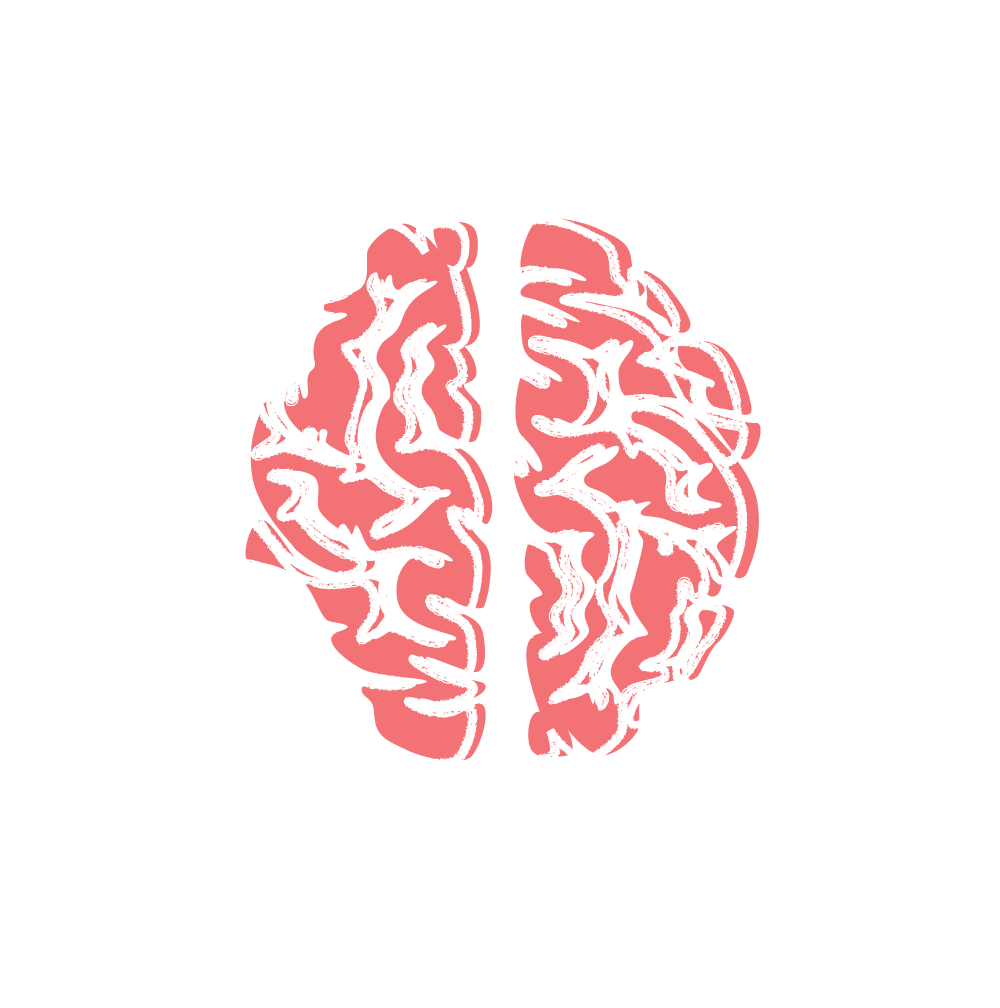
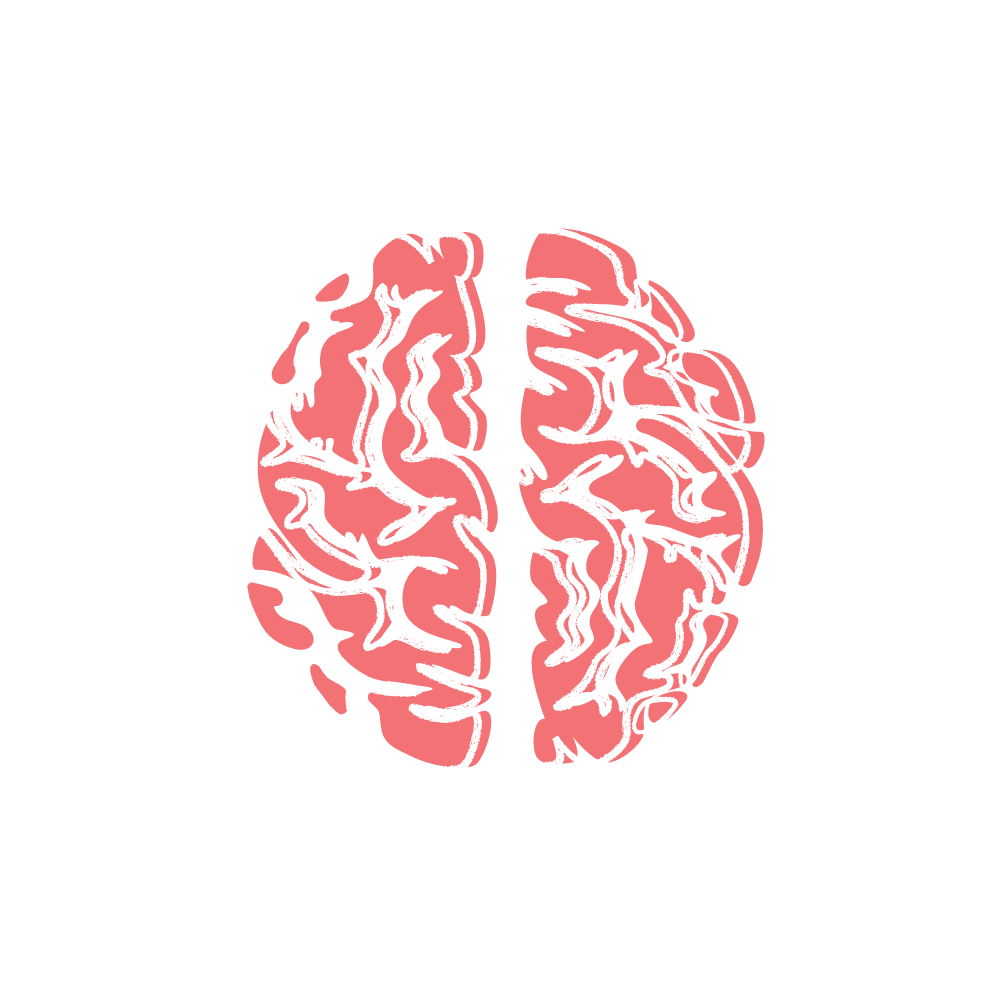
added pngs

Changed region(s): [[0.248, 0.217, 0.775, 0.775]]

diff --git a/assets/js/content.js b/assets/js/content.js
@@ -5,6 +5,7 @@ var content = [
 		shortTitle: "Origin Story of a Flu Drug",
 		subhead: "The untold story of Xoflua, which was approved by the FDA in 2018, is about the basic research, without which the drug would have been impossible, and how scientist Robert Krug made the discovery in the 1970s about how flu hijacks a critical process inside cells early on. Other flu treatments, such as Tamiflu, attack the virus after it has replicated in host cells; they work by making it harder for daughter viruses to escape from the host cell. Xofluza, on the other hand, attacks the flu virus at the early stage that Krug's research illuminated, blocking flu before it is able to create daughter viruses. \"It stops the virus cold,\" Krug said. \"It can't do anything.\"",
 		illustration: "assets/img/illustrations/rna.gif",
+		static: "assets/img/illustrations/rna.png",
 		instLogo: "assets/img/inst-logos/utaustin.png",
 		institution: "UT Austin",
 		link: "https://cns.utexas.edu/news/the-40-year-old-discovery-behind-a-promising-new-flu-drug",
@@ -17,6 +18,7 @@ var content = [
         shortTitle: "The UPS Man",
         subhead: "“We can cure almost anything,” says Dr. David McPherson. “Any cancer. Any heart disease. But the quantities needed to do so, right now, may kill the patient.” This is true, he says, not just of injectable drugs, but of pills, inhalants, and every other method of drug delivery. What’s needed are new, better, more universal ways to get drugs where we need them and keep them away from where we don’t. McPherson’s solution, on which he’s been working for almost 20 years, is a class of carriers called echogenic liposomes. They are essentially tiny innerspace submarines, with an outer lipid shell, that carry different types of drugs throughout the bloodstream.",
         illustration: "assets/img/illustrations/ups.gif",
+        static: "assets/img/illustrations/ups.png",
         instLogo: "assets/img/inst-logos/uthealth.png",
         institution: "UTHealth",
         link: "http://www.utsystempophealth.org/thj-stories/ups-man",
@@ -29,6 +31,7 @@ var content = [
         shortTitle: "The New/Old Pre-e Drug",
         subhead: "Researchers have been working for decades, with little success, on ways to treat preeclampsia or reduce the risk of developing it. They’ve tried blood pressure medications, antioxidant vitamins, salt restriction, aspirin, fish oil, and calcium, all with little or no effect. A new drug that dramatically reduced the risks would be a unicorn under any circumstances. That the new drug might in fact be an old drug, proven safe in many studies and already sold cheaply as a generic, would be extraordinary. ",
         illustration: "assets/img/illustrations/preeclampsia.gif",
+        static: "assets/img/illustrations/preeclampsia.png",
         instLogo: "assets/img/inst-logos/utmb.png",
         institution: "UTMB",
         link: "",
@@ -41,6 +44,7 @@ var content = [
         shortTitle: "Fluorine Breakthrough",
         subhead: "A groundbreaking discovery by chemists at The University of Texas at San Antonio (UTSA) will have a significant impact on how pharmaceutical companies develop new drug treatments. The breakthrough involves fluorine, which forms the second strongest carbon bond (C-F) known to science, after the carbon-silicon (C-Si) bond.",
         illustration: "assets/img/illustrations/fluorine.gif",
+        static: "assets/img/illustrations/fluorine.png",
         instLogo: "assets/img/inst-logos/utsa.png",
         institution: "UT Health San Antonio",
         link: "https://phys.org/news/2018-09-chemists-historic-fluorine-discovery.html",
@@ -53,6 +57,7 @@ var content = [
 		shortTitle: "Healing the Damaged Lung",
 		subhead: "At the core of Lung Therapeutics is a simple but profound hope: to help people who are suffering breathe easier. Over the next few years, Dr. Steven Idell and his colleagues are hoping to bring to market two drugs. One is a treatment for Loculated Pleural Effusion (LPE), a complication of pnuemonia from fluid build-up in the space between the lung and the lung lining. The other treats Idiopathic Pulmonary Fibrosis (IPF), a chronic lung disease typified by progressive lung scarring",
 		illustration: "assets/img/illustrations/Lungs.gif",
+		static: "assets/img/illustrations/Lungs.png",
 		instLogo: "assets/img/inst-logos/tyler.png",
 		institution: "UT Tyler",
 		link: "https://www.easttexasmatters.com/news/local-news/lung-scarring-reversal-drugs-discovered-by-local-doctors-sees-great-progress/674313067",
@@ -65,6 +70,7 @@ var content = [
 		shortTitle: "Pediatric Cancer",
 		subhead: " A first-of-its-kind drug targeting a fused gene found in many types of cancer was effective in 93 percent of pediatric patients tested, researchers at UT Southwestern’s Simmons Cancer Center announced. Most cancer drugs are targeted to specific organs or locations in the body. Larotrectinib is the first cancer drug to receive FDA breakthrough therapy designation for patients with a specific fusion of two genes in the cancer cell, no matter what cancer type. The research appears in The Lancet Oncology.",
 		illustration: "assets/img/illustrations/Genes.gif",
+		static: "assets/img/illustrations/Genes.png",
 		instLogo: "assets/img/inst-logos/utsw.png",
 		institution: "UT Southwestern",
 		link: "https://www.utsouthwestern.edu/newsroom/articles/year-2018/pediatric-cancer-drug.html",
@@ -77,6 +83,7 @@ var content = [
 		shortTitle: "Diabetes Drug for Pain",
 		subhead: "Scientists seeking an effective treatment for one type of chronic pain believe a ubiquitous, generic diabetes medication might solve both the discomfort and the mental deficits that go with the pain.“People who are in constant pain have problems thinking straight sometimes. The longer you’re in pain, the more entrenched the impairment becomes,” said Stephanie Shiers, a fourth-year cognition and neuroscience doctoral student at The University of Texas at Dallas and lead author of a study recently published in the Journal of Neuroscience. “These impairments aren’t addressed by existing therapeutics.”",
 		illustration: "assets/img/illustrations/neuron.gif",
+		static: "assets/img/illustrations/neuron.png",
 		instLogo: "assets/img/inst-logos/utdallas.png",
 		institution: "UT Dallas",
 		link: "https://www.utdallas.edu/news/research/study-common-diabetes-drug-offers-hope-for-chronic-pain-patients/",
@@ -89,6 +96,7 @@ var content = [
         shortTitle: "Against Alcoholism",
         subhead: "Scientists at The University of Texas at Austin have successfully tested in animals a drug that, they say, may one day help block the withdrawal symptoms and cravings that incessantly coax people with alcoholism to drink. If eventually brought to market, it could help the more than 15 million Americans, and many more around the world who suffer from alcoholism stay sober. If what has been shown to work in worms and rats addicted to alcohol can eventually be demonstrated to work in humans with minimal side effects, it would be a true breakthrough.",
         illustration: "assets/img/illustrations/alcoholism.gif",
+        static: "assets/img/illustrations/alcoholism.png",
         instLogo: "assets/img/inst-logos/utaustin.png",
         institution: "UT Austin",
         link: "https://news.utexas.edu/2018/05/03/anti-alcoholism-drug-shows-promise-in-animal-models/",
@@ -101,6 +109,7 @@ var content = [
         shortTitle: "Orphan Cancers",
         subhead: "Researchers have discovered that malignant rhabdoid tumors (MRT), a rare pediatric cancer without effective treatments, may be sensitive to drugs that block the cancer cell’s ability to dispose of misfolded proteins. The findings provide a much-needed therapeutic target for these and other cancers caused by mutations in the SMARCB1 gene. Based on these findings, the researchers now are leading a Phase II clinical trial to investigate this approach in renal medullary carcinoma (RMC), a related adolescent cancer also characterized by SMARCB1 mutations. Malignant rhabdoid tumors are aggressive pediatric cancers that generally manifest in children in the first year of life.",
         illustration: "assets/img/illustrations/kidney.gif",
+        static: "assets/img/illustrations/kidney.png",
         instLogo: "assets/img/inst-logos/mda.png",
         institution: "MD Anderson",
         link: "https://www.mdanderson.org/newsroom/new-therapeutic-target-found-for-aggressive-pediatric-cancers-with-few-treatment-options.h00-159300678.html",
@@ -113,6 +122,7 @@ var content = [
         shortTitle: "The Cutting Edge",
         subhead: "Ben Dupree peered through the microscope at the beating heart cells, awestruck by the implications. These were his cells, edited in the lab to correct a genetic flaw that had caused his muscles to deteriorate since childhood, forced him into a wheelchair, and perpetuated the prospects of an early death from Duchenne muscular dystrophy (DMD. Yet, here he witnessed a breakthrough that changed the narrative, a realization that after years of despair and depression, a lifesaving treatment for his condition was no longer a far-fetched dream.“It’s unbelievable,” Mr. Dupree, 26, said as he looked at his cells during a recent visit to a UT Southwestern gene-editing lab. “This could save so many lives one day.”",
         illustration: "assets/img/illustrations/geneedit.gif",
+        static: "assets/img/illustrations/geneedit.png",
         instLogo: "assets/img/inst-logos/utsw.png",
         institution: "UT Southwestern",
         link: "https://www.utsouthwestern.edu/newsroom/articles/year-2019/cutting-edge.html",
@@ -125,6 +135,7 @@ var content = [
         shortTitle: "New Chagas Hope",
         subhead: "Chagas disease is a potentially life-threatening disease caused by the parasite Trypanosoma cruzi, which is transmitted to animals and people by insect vectors, popularly known as kissing bugs, and by blood transfusion, organ transplant, congenitally, and by contaminated foods and juices. The disease has been endemic to Latin America, affecting 6 million to 7 million people, but it is rapidly spreading through the United States, Europe and other nonendemic regions as a result of globalization. Yet, there is no fully effective drug and no clinical vaccine. Researchers at UTEP will conduct a phase II clinical trial in Bolivia with new regimens of the drugs benznidazole and nifurtimox.",
         illustration: "assets/img/illustrations/kissingbug.gif",
+        static: "assets/img/illustrations/kissingbug.png",
         instLogo: "assets/img/inst-logos/utep.png",
         institution: "UTEP",
         link: "https://www.utep.edu/newsfeed/utep-scientists-awarded-6m-to-improve-treatment-for-chagas-disease.html",
@@ -137,6 +148,7 @@ var content = [
 		shortTitle: "Facial Tumors",
 		subhead: "Addressing a critical issue for people with a genetic disorder called tuberous sclerosis complex (TSC), doctors at McGovern Medical School have found that a skin cream containing rapamycin significantly reduced the disfiguring facial tumors affecting more than 90 percent of people with the condition. Tuberous sclerosis complex affects about 50,000 people in the United States and is characterized by the uncontrolled growth of non-cancerous tumors throughout the body.",
 		illustration: "assets/img/illustrations/Freckles.gif",
+		static: "assets/img/illustrations/Freckles.png",
 		instLogo: "assets/img/inst-logos/uthealth.png",
 		institution: "UTHealth",
 		link: "https://med.uth.edu/news/2018/07/16/rapamycin-lotion-reduces-facial-tumors-caused-by-tuberous-sclerosis-uthealth-reports/",
@@ -149,6 +161,7 @@ var content = [
         shortTitle: "Nanodiamonds Against HIV",
         subhead: "To further support the study of human immunodeficiency virus 1 (HIV-1), which is still one of the leading causes of death worldwide, the National Institutes of Health (NIH) recently awarded a grant to UTRGV researchers for their project, called “Nanodiamond Based Anti-HIV Drug Delivery Targeted Towards the Brain.” The proposed research develops a molecule that will be conjugated with the microglia-specific antibody for targeted drug delivery to the brain. Microglia is a type of cell that is majorly found throughout the brain. The proposed nanodrug can be used to directly deliver an anti-HIV drug specifically to the inflammatory areas of the brain where most of the infected microglia and the virus are present. ",
         illustration: "assets/img/illustrations/hiv.gif",
+        static: "assets/img/illustrations/hiv.png",
         instLogo: "assets/img/inst-logos/utrgv.png",
         institution: "UTRGV",
         link: "https://www.utrgv.edu/en-us/about-utrgv/news/press-releases/2018/august-03-utrgv-awarded-grant-for-anti-hiv-drug-research/index.htm",
@@ -161,6 +174,7 @@ var content = [
 		shortTitle: "A Score to Settle with Cancer",
 		subhead: "Jonathan Sessler was a college student when he was first diagnosed with Hodgkin's lymphoma. Fortunately, he was also a chemistry major. After surviving radiation therapy, relapsing and then surviving extremely high doses of what he calls ”rat poison” (a.k.a. chemotherapy), his oncologist challenged him: ”You're a chemist. Find new cancer drugs.” In the four decades since, he's founded two companies, one of which commercialized a blockbuster drug for leukemia and was sold for $21 billion. The other is working to develop a drug he invented to treat ovarian cancer, based on large molecules that deliver poisons to cancer cells and named after the Lone Star state: Texaphyrin. He knows the odds of bringing effective new cancer treatments to market are stacked against him, yet he tirelessly pushes ahead.",
 		illustration: "assets/img/illustrations/tx-mol.gif",
+		static: "assets/img/illustrations/tx-mol.png",
 		instLogo: "assets/img/inst-logos/utaustin.png",
 		institution: "UT Austin",
 		link: "https://cns.utexas.edu/point/a-score-to-settle-with-cancer",
@@ -173,6 +187,7 @@ var content = [
 		shortTitle: "Metabolizing Sulfur",
 		subhead: "“Sulfur is the one of most abundant elements in the body but little is known about the enzymes involved in its metabolism,” said Brad Pierce, associate professor of biochemistry at The University of Texas at Arlington. Pierce and his colleagues recently received a ational Institutes of Health grant to continue his work retro-engineering the sulfur oxidation process and mapping out of the chemical mechanism of three key enzymes – cysteine dioxygenase, cysteamine dioxygenase, and 3-mercaptopropionic acid dioxygenase – to provide the necessary framework to develop effective therapies and drugs for different disease states.",
 		illustration: "assets/img/illustrations/enzymes.gif",
+		static: "assets/img/illustrations/enzymes.png",
 		instLogo: "assets/img/inst-logos/uta.png",
 		institution: "UT Arlington",
 		link: "https://www.uta.edu/news/releases/2018/08/Brad%20Pierce%20NIH%20grant.php",
@@ -185,6 +200,7 @@ var content = [
         shortTitle: "No Pain, No Pain",
         subhead: "Kenneth Hargreaves is working on a new drug that holds out the hope of highly effective, totally non-addictive pain relief.",
         illustration: "assets/img/illustrations/pain.gif",
+        static: "assets/img/illustrations/pain.png",
         instLogo: "assets/img/inst-logos/utsa.png",
         institution: "UT Health San Antonio",
         link: "http://www.utsystempophealth.org/kenneth-hargreaves-ut-health-san-antonio",
@@ -197,6 +213,7 @@ var content = [
         shortTitle: "Children of Hope",
         subhead: "Chrissy Grube’s face tensed with effort. She took one laborious step in her walker, then another, pausing for breath before resuming the slow trek from the kitchen. “I am so happy,” her younger sister chimed quietly in a sing-song voice, her shoes clunking on the wooden floor as she hopped excitedly next to their father a few feet ahead. This was a big moment for the sisters. Both had been diagnosed with a rare genetic disease that was slowly killing 10-year-old Chrissy and would next take aim at Amanda. Several months prior Chrissy could not even wiggle a toe, much less stand up – the rapid deterioration of her nervous system forcing her into a wheelchair by age 8. Then, a marvel of medicine.",
         illustration: "assets/img/illustrations/genepackage.gif",
+        static: "assets/img/illustrations/genepackage.png",
         instLogo: "assets/img/inst-logos/utsw.png",
         institution: "UT Southwestern",
         link: "https://www.utsouthwestern.edu/newsroom/articles/year-2018/children-of-hope.html",
@@ -209,6 +226,7 @@ var content = [
 		shortTitle: "Combating Drug Addiction",
 		subhead: "When someone habitually misuses drugs, their brain chemistry is changed in ways that make it harder for them to quit taking drugs despite negative consequences. Once someone has developed this brain disorder, their mind pays sharper attention to cues that encourage drug use, making it harder for them to abstain. Serotonin, a brain chemical that transmits information between neural regions, is a key player in these changes. There are currently no medications available to correct this chemical imbalance",
 		illustration: "assets/img/illustrations/drug-addiction.gif",
+		static: "assets/img/illustrations/drug-addiction.png",
 		instLogo: "assets/img/inst-logos/utmb.png",
 		institution: "UTMB",
 		link: "https://www.utmb.edu/newsroom/article11798.aspx",
@@ -221,6 +239,7 @@ var content = [
 		shortTitle: "Stem Cell Treatment",
 		subhead: "Millions of Americans suffer from traumatic brain injuries (TBI) each year, but few therapies exist that can repair even minimal damage from severe TBI. As a result, treatments tend to be supportive rather than reparative. Dr. Charles Cox and his team are working to change that. “Traumatic brain injury is really two things: a primary injury and a secondary injury,” says Cox, Professor of Pediatric Surgery at McGovern Medical School at UTHealth in Houston. “The initial impact––on the ground or with an object––is the primary kinetic injury, and nothing can be done about that kinetic disruption of tissue. But then there is a secondary sequence of reactions as the body’s innate immune system responds to the damaged tissue, generating brain inflammation that ends up killing neurons.” Cox’s research is centered around using stem cell therapy to limit this collateral inflammatory damage that follows the immediate trauma of brain injury, so that some of the damaged tissue has a chance to recover.",
 		illustration: "assets/img/illustrations/stem.gif",
+		static: "assets/img/illustrations/stem.png",
 		instLogo: "assets/img/inst-logos/uthealth.png",
 		institution: "UTHealth",
 		link: "http://www.utsystempophealth.org/thj-stories/the-failure-and-unexpected-promise",
@@ -233,6 +252,7 @@ var content = [
         shortTitle: "Overcoming Resistance",
         subhead: "Mantle cell lymphoma is a rare, aggressive blood cancer that does not always respond to treatment. IACS-10759 , which was developed by MD Anderson’s Therapeutics Discovery division, takes a different approach than chemotherapy and radiation therapy. It inhibits oxidative phosphorylation (OXPHOS), one of two key metabolic processes on which cancel cells depend to support their growth and survival.",
         illustration: "assets/img/illustrations/cancercells.gif",
+        static: "assets/img/illustrations/cancercells.png",
         instLogo: "assets/img/inst-logos/mda.png",
         institution: "MD Anderson",
         link: "https://www.mdanderson.org/newsroom/study-shows-md-anderson-developed-drug-effective-in-overcoming-ibrutinib-resistance-in-mantle-cell-lymphoma.h00-159303045.html",
@@ -245,6 +265,7 @@ var content = [
         shortTitle: "Across the Blood Brain Barrier",
         subhead: "Dr. Zhenpeng Qin’s cancer research focuses on inducing tiny nanoscale forces to pry open the blood-brain barrier. The technique relies on first engineering nanoparticles with an antibody that allows the particles to bind to the innermost cells lining the brain blood vessels, the endothelial cells, which form the blood-brain barrier. Once delivered intravenously, nanoparticles bind to those endothelial cells that are adjacent to tight-junction proteins located between endothelial cells. With the nanoparticles in position, Qin’s team directs a pulsating, near-infrared laser directly onto the nanoparticles.",
         illustration: "assets/img/illustrations/brain.gif",
+        static: "assets/img/illustrations/brain.png",
         instLogo: "assets/img/inst-logos/utdallas.png",
         institution: "UT Dallas",
         link: "https://www.utdallas.edu/news/research/engineer-brain-cancer-treatment-2019/",
@@ -257,6 +278,7 @@ var content = [
 		shortTitle: "Stroke Prevention",
 		subhead: "If you’ve had a minor stroke or a transient ischemic stroke (TIA), taking the clot-preventing drug clopidogrel along with aspirin may lower your risk of having a major stroke within the next 90 days, according to new research published in The New England Journal of Medicine. An international study of 4,881 adults in 10 countries who either had a minor stroke or a TIA showed that people who took clopidogrel plus aspirin had a 25 percent lower risk of a major stroke, heart attack or death from blood clots within the three months after the first incident, compared with those who took aspirin alone.",
 		illustration: "assets/img/illustrations/transient.gif",
+		static: "assets/img/illustrations/transient.png",
 		instLogo: "assets/img/inst-logos/utaustin.png",
 		institution: "UT Austin",
 		link: "https://dellmed.utexas.edu/news/stroke-prevention-drug-combo-shows-promise-study-says",
@@ -269,6 +291,7 @@ var content = [
 		shortTitle: "Lifting the Brain Fog",
 		subhead: "It was a few days after Thanksgiving in 2001, and Paula Offenhauser was rummaging for her plastic Christmas tree in the attic. Realizing she needed scissors to free the decorative shrub from its packaging, she headed back down to the floor below. The attic ladder was one of those steep, narrow, precarious ones. Offenhauser tripped at the top and tumbled down, her body crumpling at the bottom, wedged between the ladder and the door opposite the bottom rung. After that, she doesn’t remember much. “I went to the attic, and I woke up in a hospital six days later,” said Offenhauser. She hit the back of her head on either the wall or the ladder––the bloodstains were unclear. Her 25-month-old daughter answered the phone when Offenhauser’s sister called an hour later, and was able to communicate enough to prompt an immediate 911 call.",
 		illustration: "assets/img/illustrations/tbi.gif",
+		static: "assets/img/illustrations/tbi.png",
 		instLogo: "assets/img/inst-logos/utmb.png",
 		institution: "UTMB",
 		link: "http://www.utsystempophealth.org/thj-stories/how-growth-hormone-can-lift-the-tbi-brain-fog",
@@ -281,6 +304,7 @@ var content = [
 		shortTitle: "The Bat Flower Drug",
 		subhead: "There is nothing bleaker to a family than being told that their loved one’s cancer has stopped responding to chemotherapy and there are no more options. UT Health San Antonio and spinoff company Terrona LLC want to end that. “We can help patients for a time, but there comes a point when we do not have further therapy that we can utilize,” said Susan L. Mooberry, Ph.D., professor of pharmacology in the Joe R. & Teresa Lozano Long School of Medicine at UT Health San Antonio.",
 		illustration: "assets/img/illustrations/bat-flower.gif",
+		static: "assets/img/illustrations/bat-flower.png",
 		instLogo: "assets/img/inst-logos/utsa.png",
 		institution: "UTHealth San Antonio",
 		link: "https://news.uthscsa.edu/drug-from-bat-flower-shrinks-resistant-tumors/",
@@ -294,6 +318,7 @@ var content = [
         shortTitle: "One-Two Punching Lung Cancer",
         subhead: "A one-two combo punch using two currently available drugs could be an effective treatment for the majority of lung cancers, a study by scientists with UT Southwestern’s Simmons Cancer Center shows. Researchers found that a combination of drugs, one targeting epidermal growth factor receptor (EGFR) and one targeting tumor necrosis factor (TNF), effectively blocks the cancer from using TNF as an escape route. Using a mouse model, the researchers showed that when TNF is also blocked, the cancer becomes sensitive to EGFR treatment. The latest findings build on previous work showing that the same combination of drugs was successful in a mouse model of glioblastoma, a deadly type of brain cancer.",
         illustration: "assets/img/illustrations/duo.gif",
+        static: "assets/img/illustrations/duo.png",
         instLogo: "assets/img/inst-logos/utsw.png",
         institution: "UT Southwestern",
         link: "https://www.utsouthwestern.edu/newsroom/articles/year-2018/lung-cancer-habib.html",

diff --git a/assets/js/app.js b/assets/js/app.js
@@ -23,7 +23,7 @@ content.forEach(function(drug){
 	var secWrap = $("<div class='sec-wrap'></div>")
 	var graphicCol = $("<div class='d-graphicCol'></div>")
 	var graphicContain = $("<div class='graphic-container d-graphic-container'></div>")
-	var staticImg = $("<div class='pngAndCanvas gif-container'><img data-src ='"+ drug.illustration + "' src='"+placeHolder+"'></div>")
+	var staticImg = $("<div class='pngAndCanvas gif-container'><img data-gif ='"+ drug.illustration + "' src='"+drug.static+"'></div>")
 	// if(drug.matter){
 	// 	var matterDiv = $("<div class='pngAndCanvas d-canvas' id='"+matterId+"'></div>");
 	// 	graphicContain.append(matterDiv)
@@ -126,9 +126,8 @@ var myFullpage = new fullpage('#fullpage', {
 	onLeave: function(origin, destination, direction){
 		$("#tooltip").addClass("notShown")
 		var navList = document.getElementById("navlist")
-		// console.log(winHeight/35)
 		navList.scrollTop = (destination.index-1) * 35
-		console.log(origin, destination,direction)
+		// console.log(origin, destination,direction)
 		if (origin.index === 0 ||destination.index === 0 && !isMobile){
 			$(".sidebar").toggleClass("invisible")
 			$("#nav-btn").toggleClass("invisible")
@@ -254,7 +253,6 @@ var Engine = Matter.Engine,
 var engine1 = Engine.create();
 engine1.world.gravity.y = 0.05;
 var homeMatter = document.getElementById('home-matter');
-console.log(homeMatter)
 // create a renderer
 var render1 = Render.create({
     element: homeMatter,
@@ -308,7 +306,6 @@ function parsePath(path, vertices){
 			y: parseInt(xyArray[1])
 		}
 		vertices.push(point);
-		console.log(vertices)
 	}
 }
 
@@ -353,7 +350,6 @@ function getRandom(min,max){
 // add all of the bodies to the world
 World.add(engine1.world, [ pillShell, ceiling]);
 // World.add(engine.world, circlesArr);
-console.log(circlesArr)
 
 var mouse = Mouse.create(render1.canvas),
 	mouseConstraint = MouseConstraint.create(engine1, {
@@ -383,7 +379,7 @@ var hovered = null;
 var hoveredIndex;
 var drugLink;
 homeCanvas.addEventListener("click", function(){
-	console.log(drugLink)
+	// console.log(drugLink)
 	if(drugLink){
 		window.location.href = drugLink
 	}
@@ -416,7 +412,7 @@ homeCanvas.addEventListener("mousemove", function(e){
 				hoveredIndex = hovered.id -1
 				hovered.render.strokeStyle = "rgba(255,255, 255,1)"
 				hovered.render.lineWidth = 3
-				console.log(hovered.content)
+				// console.log(hovered.content)
 				$(".t-drug-inst").text(hovered.content.institution)
 				$(".t-drug-title").text(hovered.content.shortTitle)
 				$(".t-drug-no").text(hovered.content.num)
@@ -490,7 +486,7 @@ var firstSlide = document.getElementById("section1")
 if(isMobile){
 	window.addEventListener("scroll", function(){
 		var topScroll = window.pageYOffset;
-		console.log(topScroll)
+		// console.log(topScroll)
 		if (topScroll>= 0.9*winHeight){
 			$(".sidebar").removeClass("invisible")
 			$("#nav-btn").removeClass("invisible")
@@ -507,10 +503,8 @@ if(isMobile){
 
 //// legend stuff
 var legBoxes = $("td .color");
-console.log(legBoxes)
 
 for(var i =0; i<legBoxes.length; i++){
-	console.log(i)
 	$(legBoxes[i]).css({"background-color": colors11[i]})
 }
 
@@ -519,14 +513,16 @@ for(var i =0; i<legBoxes.length; i++){
 
 
 ////observer test
-const loadImage = (image) => {
-	const src = image.dataset.src;
-	fetchImage(src).then(() => {
+var images = document.querySelectorAll('img');
+
+function loadImage(image){
+	var src = image.dataset.gif;
+	fetchImage(src).then(function(){
 	  image.src = src;
 	})
   }
 
-const fetchImage = (url) => {
+function fetchImage(url){
 	return new Promise((resolve, reject) => {
 	const image = new Image();
 	image.src = url;
@@ -534,23 +530,21 @@ const fetchImage = (url) => {
 	image.onerror = reject;
 	});
 }
-const options = {
-	rootMargin: '0px 0px 200px 0px',
+var options = {
+	rootMargin: '0px 0px 800px 0px',
 	threshold: 0.1
   };
-  const handleIntersection = (entries, observer) => {
-	entries.forEach(entry => {
+  function handleIntersection(entries, observer){
+	entries.forEach( function(entry){
 	  if(entry.intersectionRatio > 0) {
 		  console.log(entry)
 		loadImage(entry.target)
 	  }
 	})
   }
-const observer = new IntersectionObserver(handleIntersection, options);
+var observer = new IntersectionObserver(handleIntersection, options);
 
-const images = document.querySelectorAll('img');
-
-images.forEach(img => {
+images.forEach(function(img){
   observer.observe(img);
 })
 

diff --git a/assets/css/style.css b/assets/css/style.css
@@ -50,6 +50,7 @@ p{
     padding-top: 0 !important;
     z-index: 2;
     background: black;
+    /* background: rgba(247,148,32,1); */
 
 }
 .section:nth-child(even){
